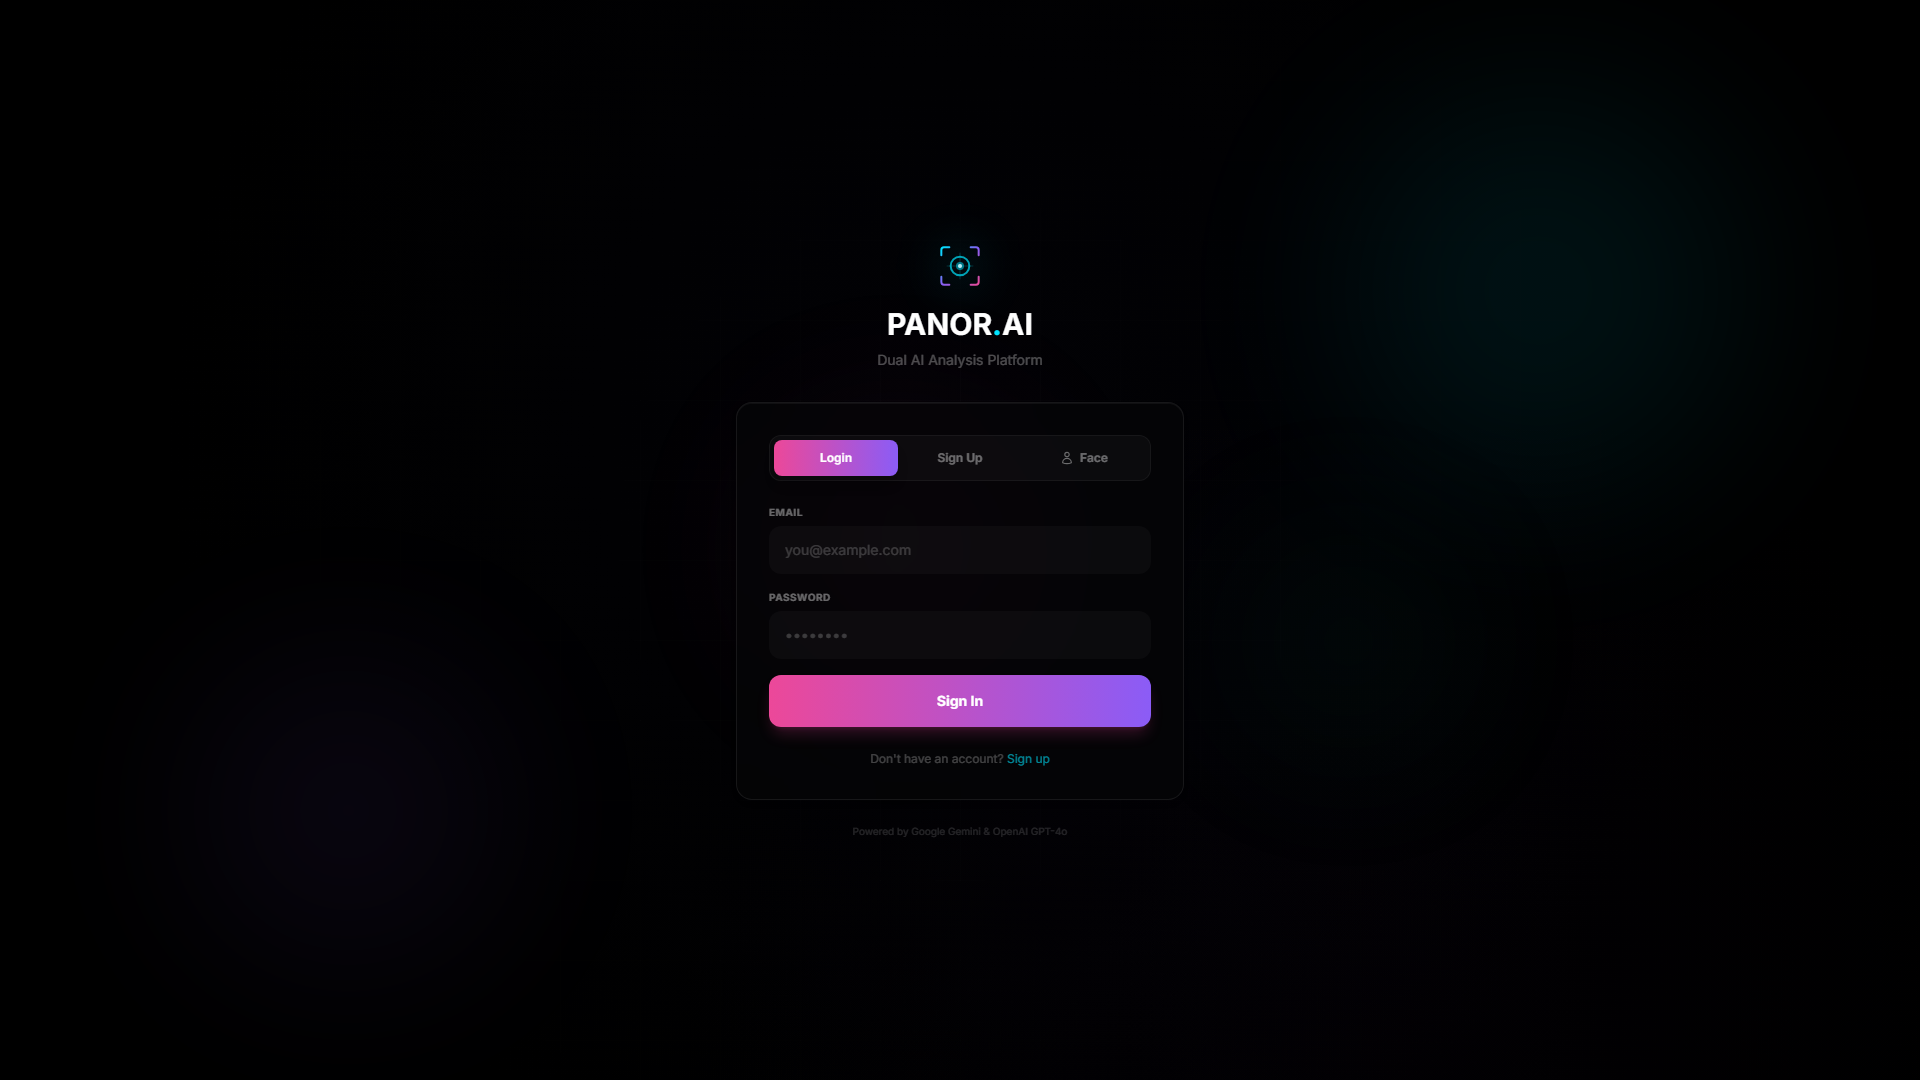
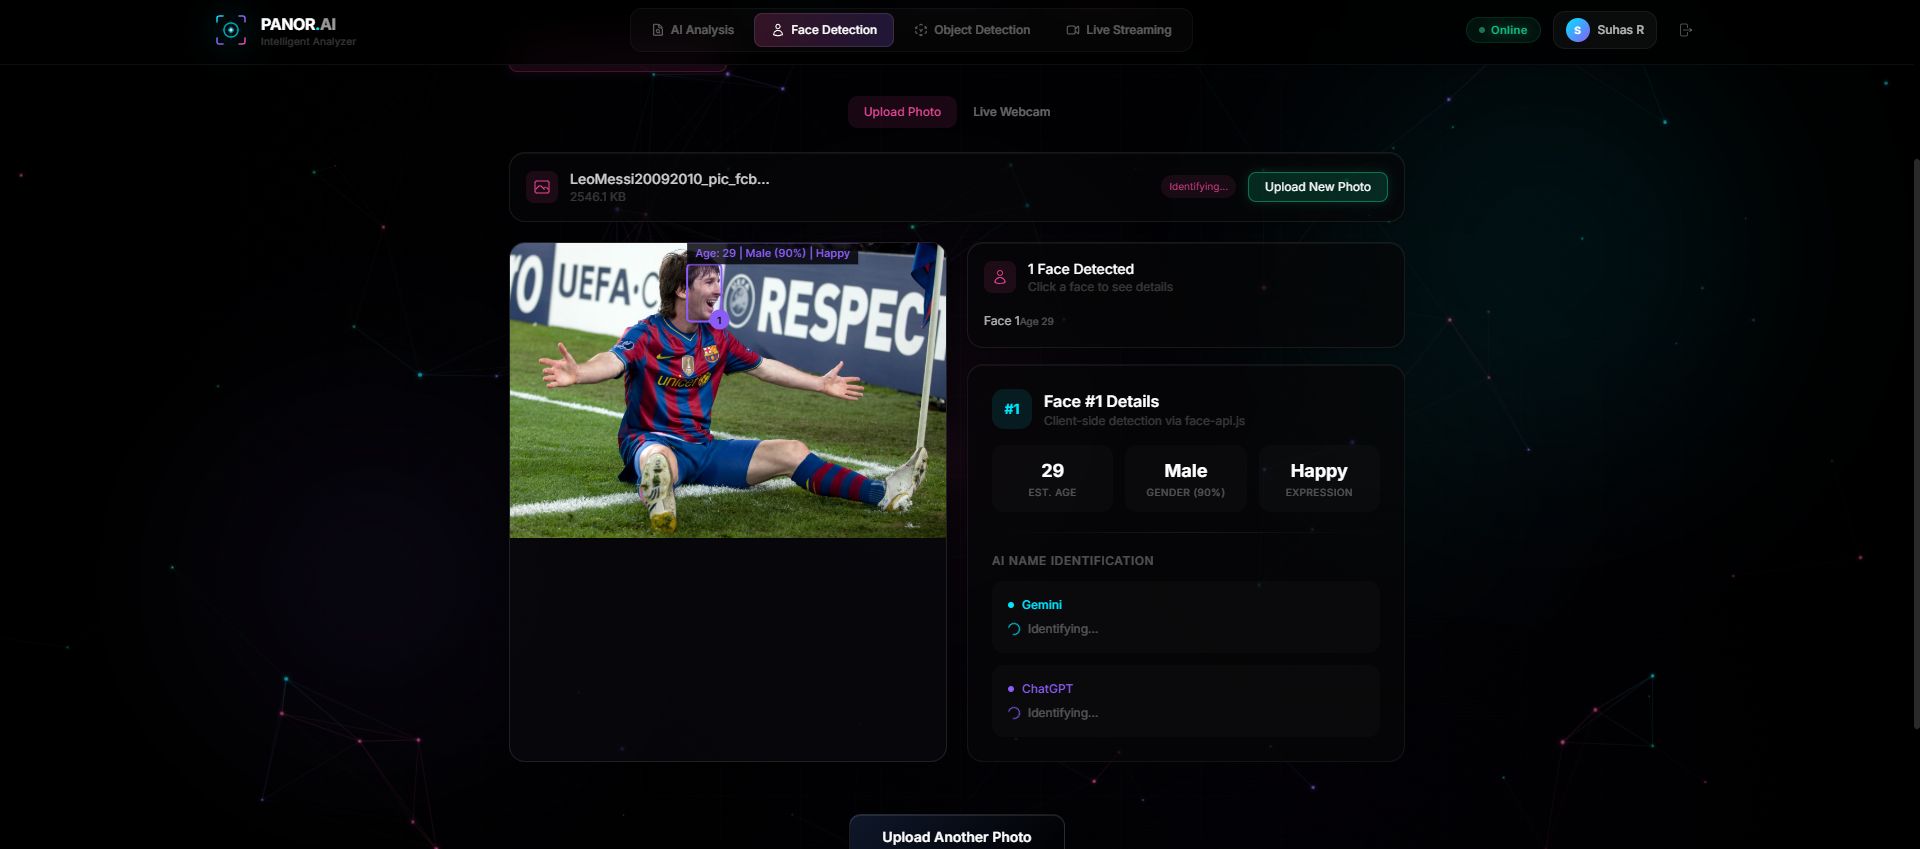
Update screenshots with actual app UI captures

diff --git a/README.md b/README.md
@@ -14,20 +14,17 @@ A production-ready web application that analyzes documents using both Google Gem
 
 ## Screenshots
 
-### Login Page
-![Login Page](screenshots/homepage.png)
+### Dual AI Analysis
+![AI Analysis](screenshots/ai-analysis.png)
+
+### AI Analysis Response
+![AI Analysis Response](screenshots/ai-analysis-response.png)
 
 ### Face Detection
 ![Face Detection](screenshots/face-detection.png)
 
 ### Object Detection
 ![Object Detection](screenshots/object-detection.png)
-
-### Live Streaming
-![Live Streaming](screenshots/live-streaming.png)
-
-### Face Descriptor Generator
-![Face Descriptor Generator](screenshots/generate-descriptors.png)
 
 ## Tech Stack
 
